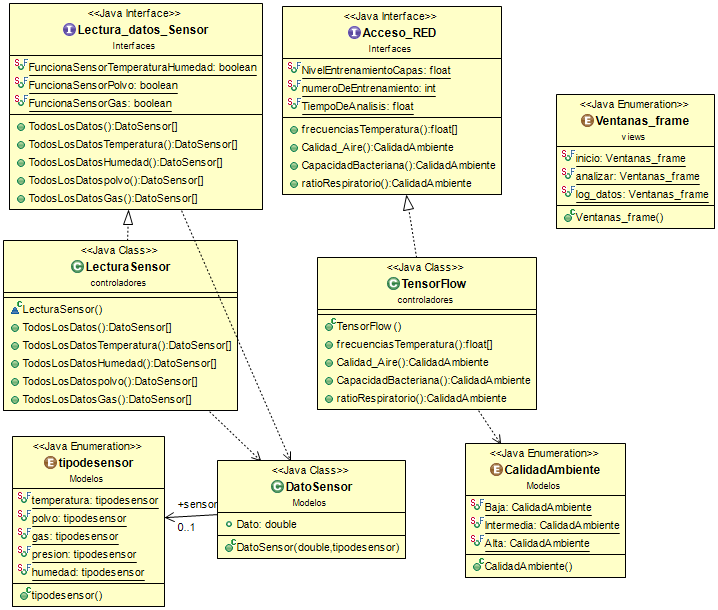
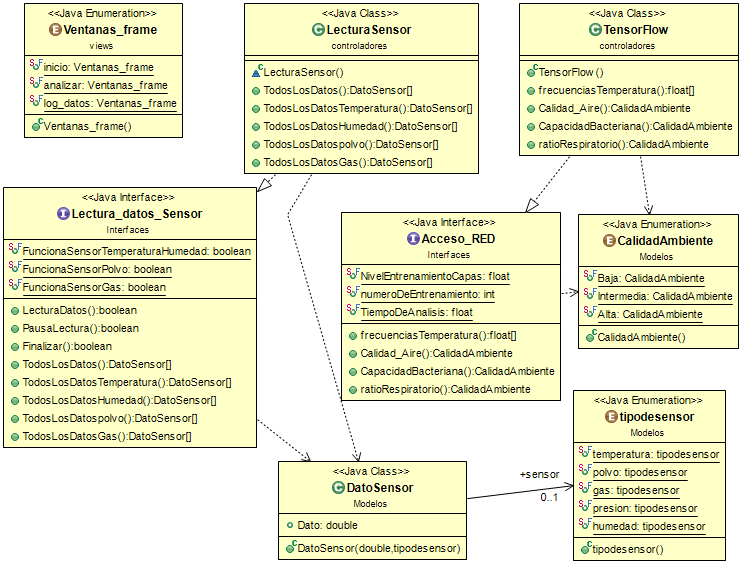
Agregar metodos de inicio y pausa finalizar lectura sensor

diff --git a/Analizador_de_ambiente/src/Interfaces/Lectura_datos_Sensor.java b/Analizador_de_ambiente/src/Interfaces/Lectura_datos_Sensor.java
@@ -7,6 +7,9 @@ public interface Lectura_datos_Sensor {
 	static boolean FuncionaSensorTemperaturaHumedad = true;
 	static boolean FuncionaSensorPolvo = true;
 	static boolean FuncionaSensorGas = true;
+	abstract public boolean LecturaDatos();
+	abstract public boolean PausaLectura();
+	abstract public boolean Finalizar();
 	
 	abstract public DatoSensor[] TodosLosDatos();
 	abstract public DatoSensor[] TodosLosDatosTemperatura();

diff --git a/Analizador_de_ambiente/src/test/LecturaSensor.java b/Analizador_de_ambiente/src/test/LecturaSensor.java
@@ -59,6 +59,24 @@ public class LecturaSensor implements Lectura_datos_Sensor {
 		}
 		return Salida;
 	}
+
+	@Override
+	public boolean LecturaDatos() {
+		// TODO Auto-generated method stub
+		return false;
+	}
+
+	@Override
+	public boolean PausaLectura() {
+		// TODO Auto-generated method stub
+		return false;
+	}
+
+	@Override
+	public boolean Finalizar() {
+		// TODO Auto-generated method stub
+		return false;
+	}
 	
 
 }
